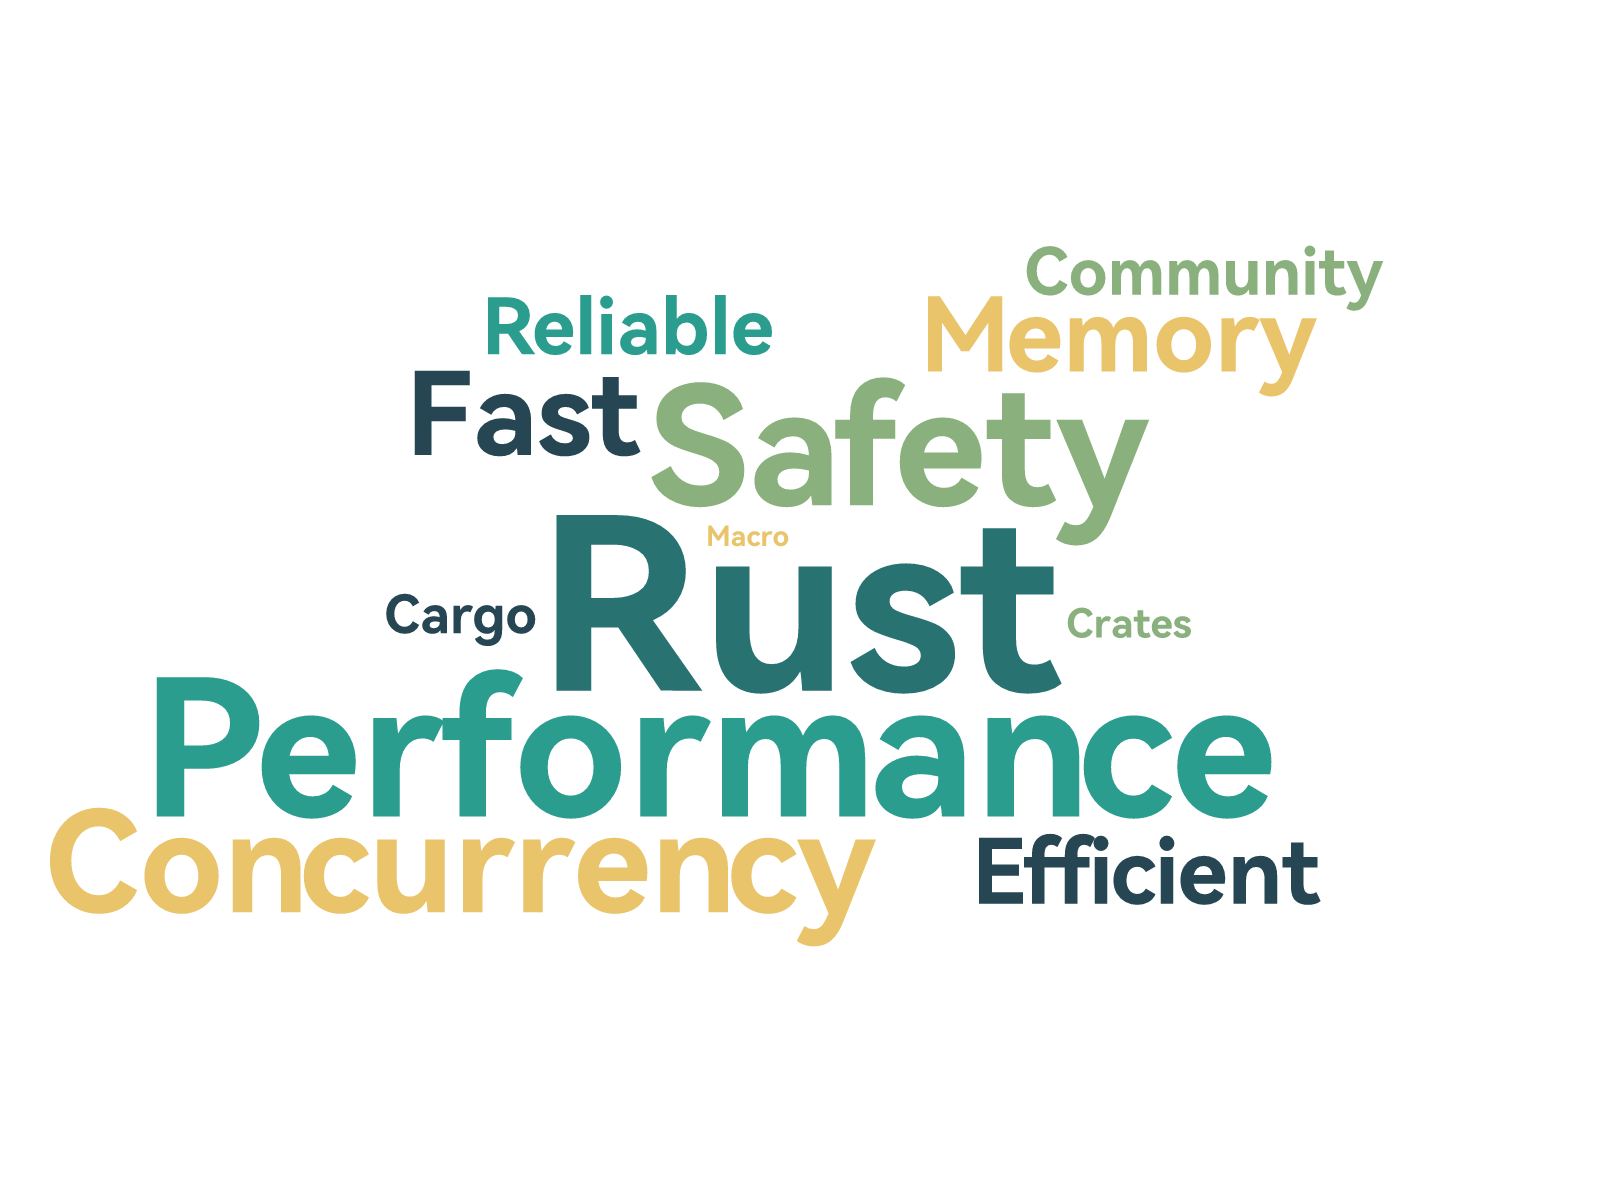
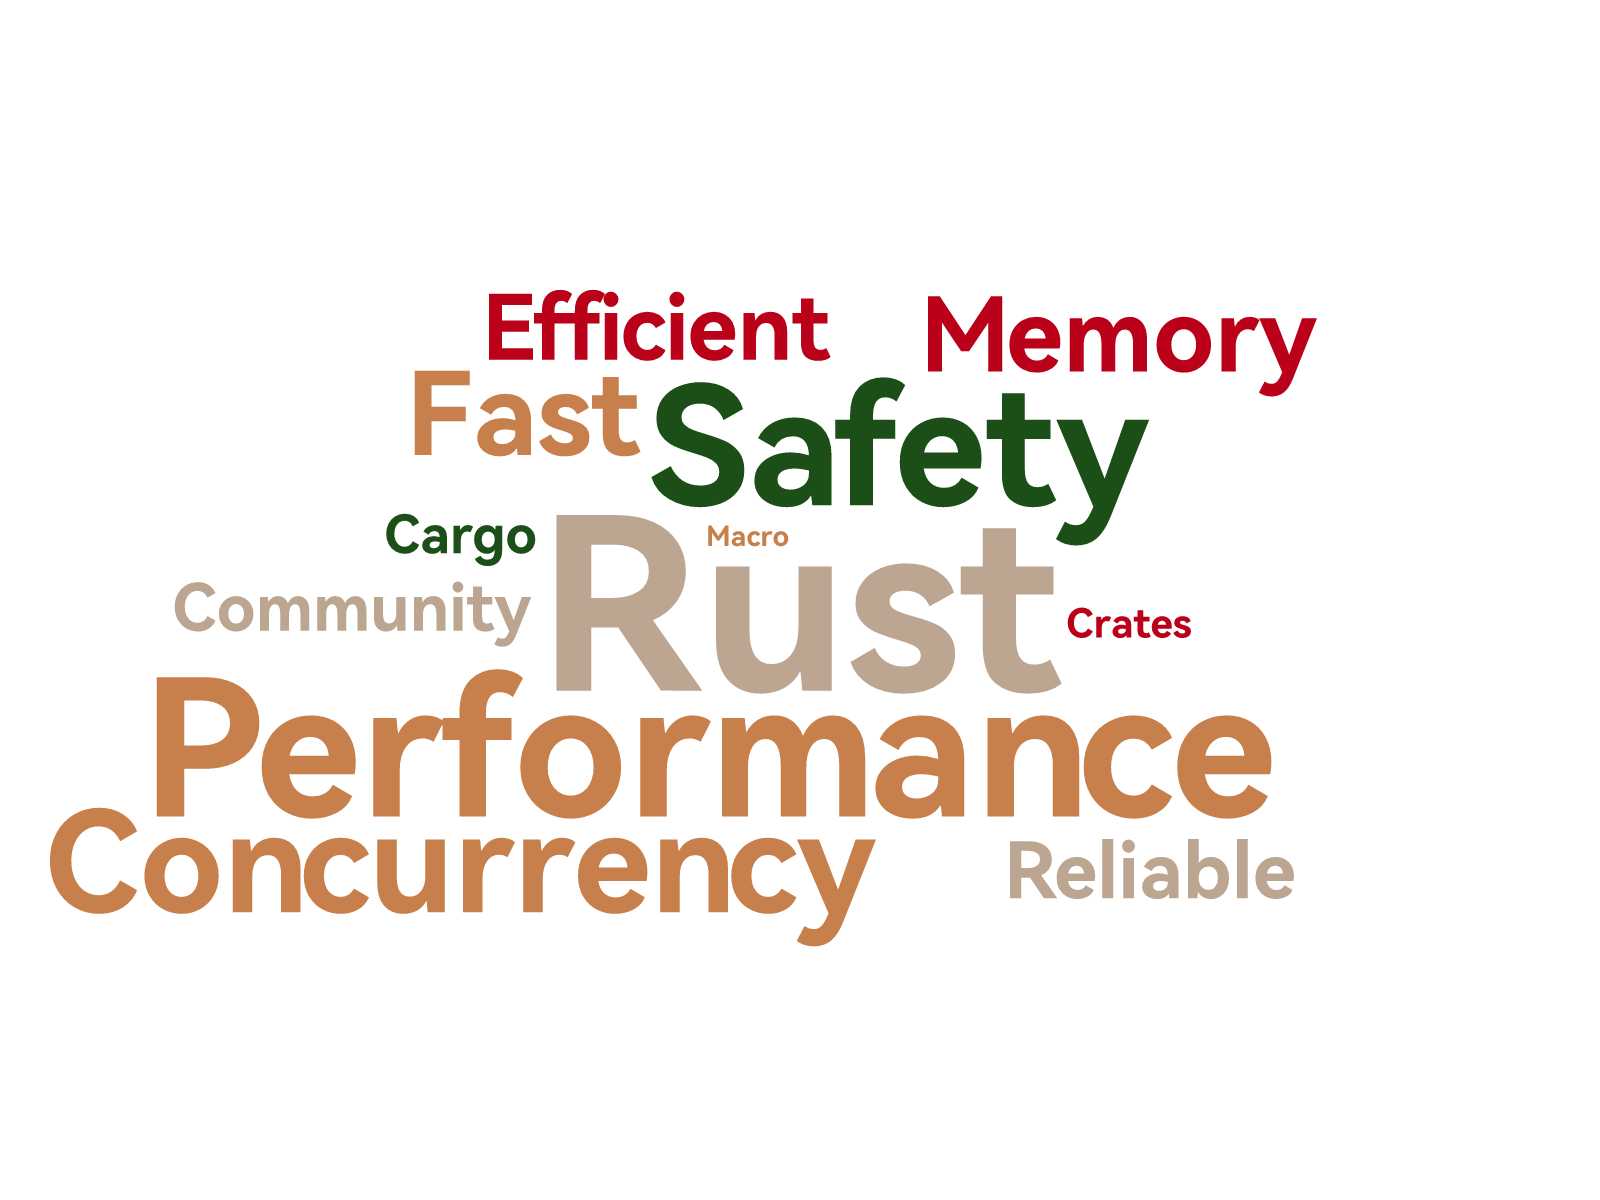
Update color schemes and example outputs
- Rename color schemes to more descriptive names (e.g., Ocean → Blue)
- Add background_color() method to ColorScheme for automatic contrast
- Update examples to use scheme.background_color() for consistent
  backgrounds
- Change Chinese example output from JPG to PNG format
- Add SVG output for simple example
- Update seed values in examples
- Add library website link to documentation

Changed region(s): [[0.0312, 0.185, 0.875, 0.8017]]

diff --git a/src/lib.rs b/src/lib.rs
@@ -2,6 +2,7 @@
  * Araea WordCloud Library
  *
  * 一个纯 Rust 实现的词云可视化库。
+ * https://wordcloud.online/zh
  */
 
 use fontdue::{Font, FontSettings};
@@ -65,27 +66,39 @@ pub struct PlacedWord {
 #[derive(Debug, Clone, Copy, Default)]
 pub enum ColorScheme {
     #[default]
-    Ocean,
-    Sunset,
-    Forest,
-    Berry,
-    Monochrome,
-    Rainbow,
+    Default,
+    Contrasting1,
+    Blue,
+    Green,
+    Cold1,
+    Black,
+    White,
 }
 
 impl ColorScheme {
     pub fn colors(&self) -> Vec<&'static str> {
         match self {
-            ColorScheme::Ocean => vec!["#264653", "#287271", "#2a9d8f", "#8ab17d", "#e9c46a"],
-            ColorScheme::Sunset => vec!["#f94144", "#f3722c", "#f8961e", "#f9844a", "#f9c74f"],
-            ColorScheme::Forest => vec!["#2d6a4f", "#40916c", "#52b788", "#74c69d", "#95d5b2"],
-            ColorScheme::Berry => vec!["#7b2cbf", "#9d4edd", "#c77dff", "#e0aaff", "#ff6d00"],
-            ColorScheme::Monochrome => vec!["#212529", "#495057", "#6c757d", "#adb5bd", "#ced4da"],
-            ColorScheme::Rainbow => {
-                vec![
-                    "#e63946", "#f4a261", "#e9c46a", "#2a9d8f", "#457b9d", "#7b2cbf",
-                ]
+            ColorScheme::Default => vec!["#0b100c", "#bb0119", "#c7804b", "#bca692", "#1c4e17"],
+            ColorScheme::Contrasting1 => {
+                vec!["#e76f3d", "#feab6b", "#f3e9e7", "#9bcfe0", "#00a7c7"]
             }
+            ColorScheme::Blue => vec!["#264653", "#2a9d8f", "#e9c46a", "#f4a261", "#e76f51"],
+            ColorScheme::Green => vec!["#386641", "#6a994e", "#a7c957", "#f2e8cf", "#bc4749"],
+            ColorScheme::Cold1 => vec!["#252b31", "#5e6668", "#c1c8c7", "#f6fafb", "#d49c6b"],
+            ColorScheme::Black => vec!["#000000"],
+            ColorScheme::White => vec!["#ffffff"],
+        }
+    }
+
+    pub fn background_color(&self) -> &'static str {
+        match self {
+            ColorScheme::Default => "#ffffff",
+            ColorScheme::Contrasting1 => "#000000",
+            ColorScheme::Blue => "#ffffff",
+            ColorScheme::Green => "#ffffff",
+            ColorScheme::Cold1 => "#000000",
+            ColorScheme::Black => "#ffffff",
+            ColorScheme::White => "#000000",
         }
     }
 }
@@ -161,15 +174,12 @@ pub struct WordCloudBuilder {
 
 impl Default for WordCloudBuilder {
     fn default() -> Self {
+        let scheme = ColorScheme::Default;
         Self {
             width: 800,
             height: 600,
-            background: "#FFFFFF".into(),
-            colors: ColorScheme::Ocean
-                .colors()
-                .into_iter()
-                .map(String::from)
-                .collect(),
+            background: scheme.background_color().into(),
+            colors: scheme.colors().into_iter().map(String::from).collect(),
             font_data: None,
             mask_data: None,
             padding: 2,
@@ -200,13 +210,14 @@ impl WordCloudBuilder {
 
     pub fn color_scheme(mut self, scheme: ColorScheme) -> Self {
         self.colors = scheme.colors().into_iter().map(String::from).collect();
+        self.background = scheme.background_color().into();
         self
     }
 
     pub fn colors(mut self, colors: impl IntoIterator<Item = impl Into<String>>) -> Self {
         self.colors = colors.into_iter().map(|c| c.into()).collect();
         if self.colors.is_empty() {
-            self.colors = ColorScheme::Ocean
+            self.colors = ColorScheme::Default
                 .colors()
                 .into_iter()
                 .map(String::from)
@@ -465,7 +476,7 @@ impl WordCloudBuilder {
         let max_iter = 10000;
 
         for (dx, dy) in spiral.take(max_iter) {
-            // 计算左上角坐标 (TS逻辑: current_x 是 sprite 左上角)
+            // 计算左上角坐标
             let current_x = start_x + dx - (sprite.bbox_width as i32 / 2);
             let current_y = start_y + dy - (sprite.bbox_height as i32 / 2);
 
@@ -499,7 +510,6 @@ struct CollisionMap {
 
 impl CollisionMap {
     fn new(width: u32, height: u32) -> Self {
-        // TS逻辑: width >> 5
         let stride = ((width + 31) >> 5) as usize;
         Self {
             width,
@@ -525,8 +535,7 @@ impl CollisionMap {
         let sprite_h = sprite.bbox_height;
 
         // 计算 X 轴上的位移
-        // TS logic: shift = startX & 31
-        let shift = (start_x & 31).unsigned_abs(); // abs purely for safety, logical & handles neg
+        let shift = (start_x & 31).unsigned_abs();
         let r_shift = 32 - shift;
 
         // 计算 grid 中的起始索引
@@ -556,9 +565,6 @@ impl CollisionMap {
                 };
 
                 // 构造 Mask: 上一块的剩余部分 | 当前块的移位部分
-                // TS: (carry << rShift) | (sVal >>> shift)
-                // Rust u32 >> is logical shift (zero-fill), matching JS >>>
-                // 需要注意 shift == 0 的情况，Rust shift overflow 会 panic
                 let mask = if shift == 0 {
                     s_val
                 } else {
@@ -784,7 +790,6 @@ struct ArchimedeanSpiral {
 
 impl ArchimedeanSpiral {
     fn new(width: i32, height: i32, dt: i32) -> Self {
-        // TS parameters: e = 4
         let e = 4.0;
         let ratio = e * width as f64 / height as f64;
         Self {
@@ -804,7 +809,6 @@ impl Iterator for ArchimedeanSpiral {
     fn next(&mut self) -> Option<Self::Item> {
         self.t += self.dt;
         let sign = if self.t < 0 { -1.0 } else { 1.0 };
-        // TS Spiral logic approximation
         let idx = ((1.0 + 4.0 * sign * self.t as f64).sqrt() - sign) as i32 & 3;
         match idx {
             0 => self.dx += self.ratio,
@@ -870,19 +874,10 @@ impl WordCloud {
     pub fn to_png(&self, scale: f32) -> Result<Vec<u8>, Error> {
         let svg_content = self.to_svg();
         let mut fontdb = usvg::fontdb::Database::new();
-        // fontdb.load_system_fonts();
+
         fontdb.load_font_source(usvg::fontdb::Source::Binary(Arc::new(
             self.font_data.clone(),
         )));
-
-        // println!("=== 正在渲染 SVG，请求的字体名: '{}' ===", self.font_family);
-        // println!("=== fontdb 中已加载的字体列表: ===");
-        // for face in fontdb.faces() {
-        //     println!(
-        //         "  Family: {:?}, Weight: {:?}, Style: {:?}, Stretch: {:?}",
-        //         face.families, face.weight, face.style, face.stretch
-        //     );
-        // }
 
         let options = usvg::Options {
             font_family: self.font_family.clone(),

diff --git a/examples/chinese_dense.rs b/examples/chinese_dense.rs
@@ -14,15 +14,16 @@ fn main() -> Result<(), Box<dyn std::error::Error>> {
 
     println!("Building word cloud ({}x{})...", width, height);
 
+    let scheme = ColorScheme::Default;
     let wordcloud = WordCloudBuilder::new()
         .size(width, height)
-        .color_scheme(ColorScheme::Ocean)
-        .background("#F5F7FA")
+        .color_scheme(scheme)
+        .background(scheme.background_color())
         .padding(2)
         .word_spacing(2.0)
         .angles(vec![0.0, 90.0])
         .font_size_range(10.0, 100.0)
-        .seed(2023)
+        .seed(2025)
         .build(&words)?;
 
     let output_path = "output_chinese_dense.png";

diff --git a/examples/mask_shape.rs b/examples/mask_shape.rs
@@ -17,11 +17,13 @@ fn main() -> Result<(), Box<dyn std::error::Error>> {
     }
 
     println!("Building word cloud...");
+
+    let scheme = ColorScheme::Default;
     let wordcloud = WordCloudBuilder::new()
         .size(width, height)
         .mask_preset(MaskShape::Heart)
-        .color_scheme(ColorScheme::Berry)
-        .background("#FFFFFF")
+        .color_scheme(scheme)
+        .background(scheme.background_color())
         .padding(2)
         .word_spacing(2.0)
         .font_size_range(12.0, 80.0)

diff --git a/README.md b/README.md
@@ -70,7 +70,7 @@ let wordcloud = WordCloudBuilder::new()
 ![Simple Example](./output_simple.png)
 
 ### Chinese Dense Word Cloud  
-![Chinese Dense Example](./output_chinese_example.jpg)
+![Chinese Dense Example](./output_chinese_dense.png)
 
 Run the examples:
 - `cargo run --example simple` - Basic usage
